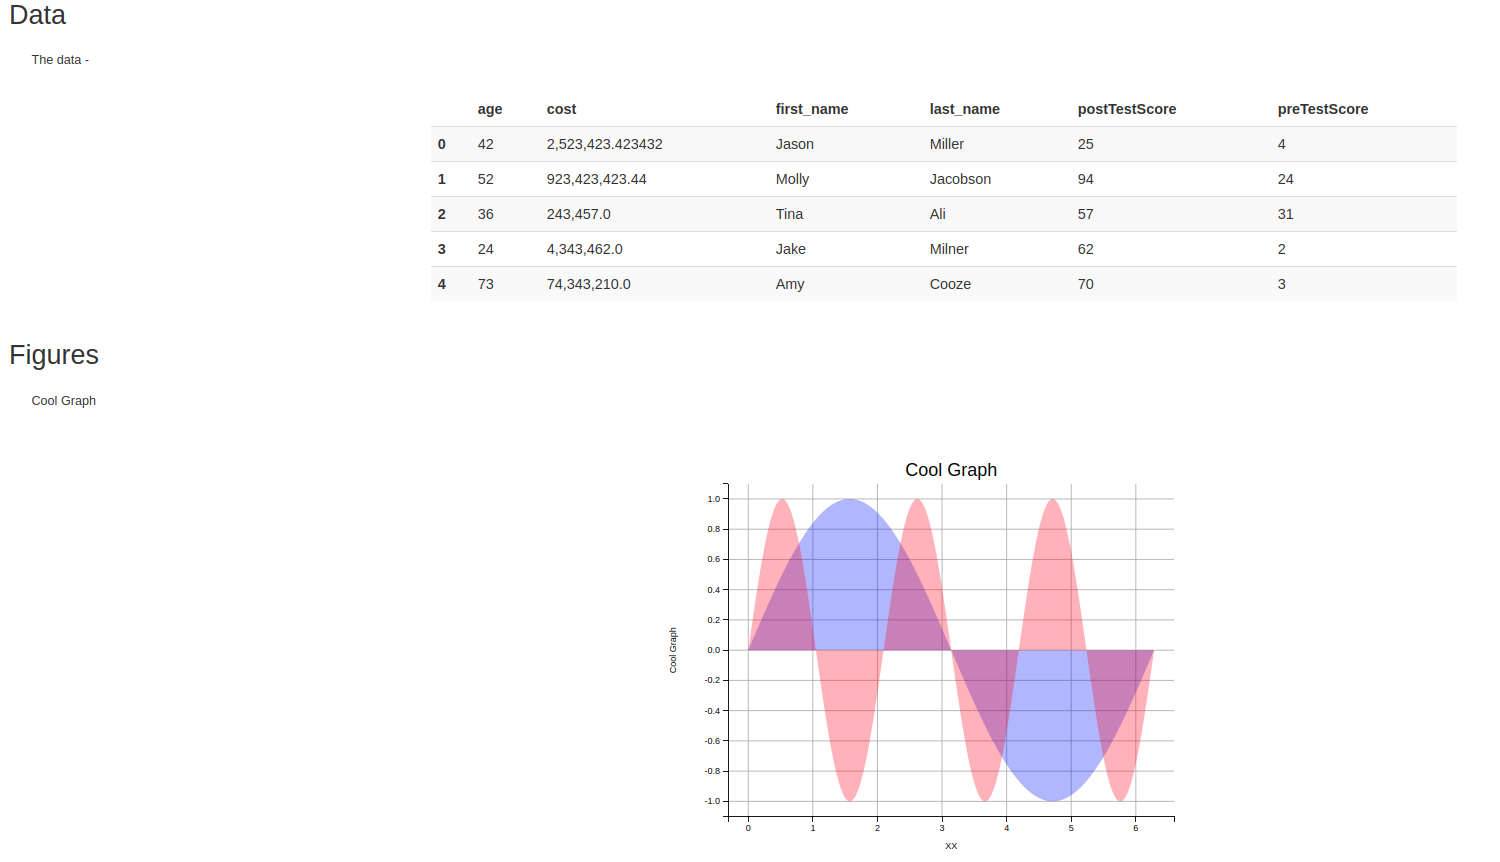
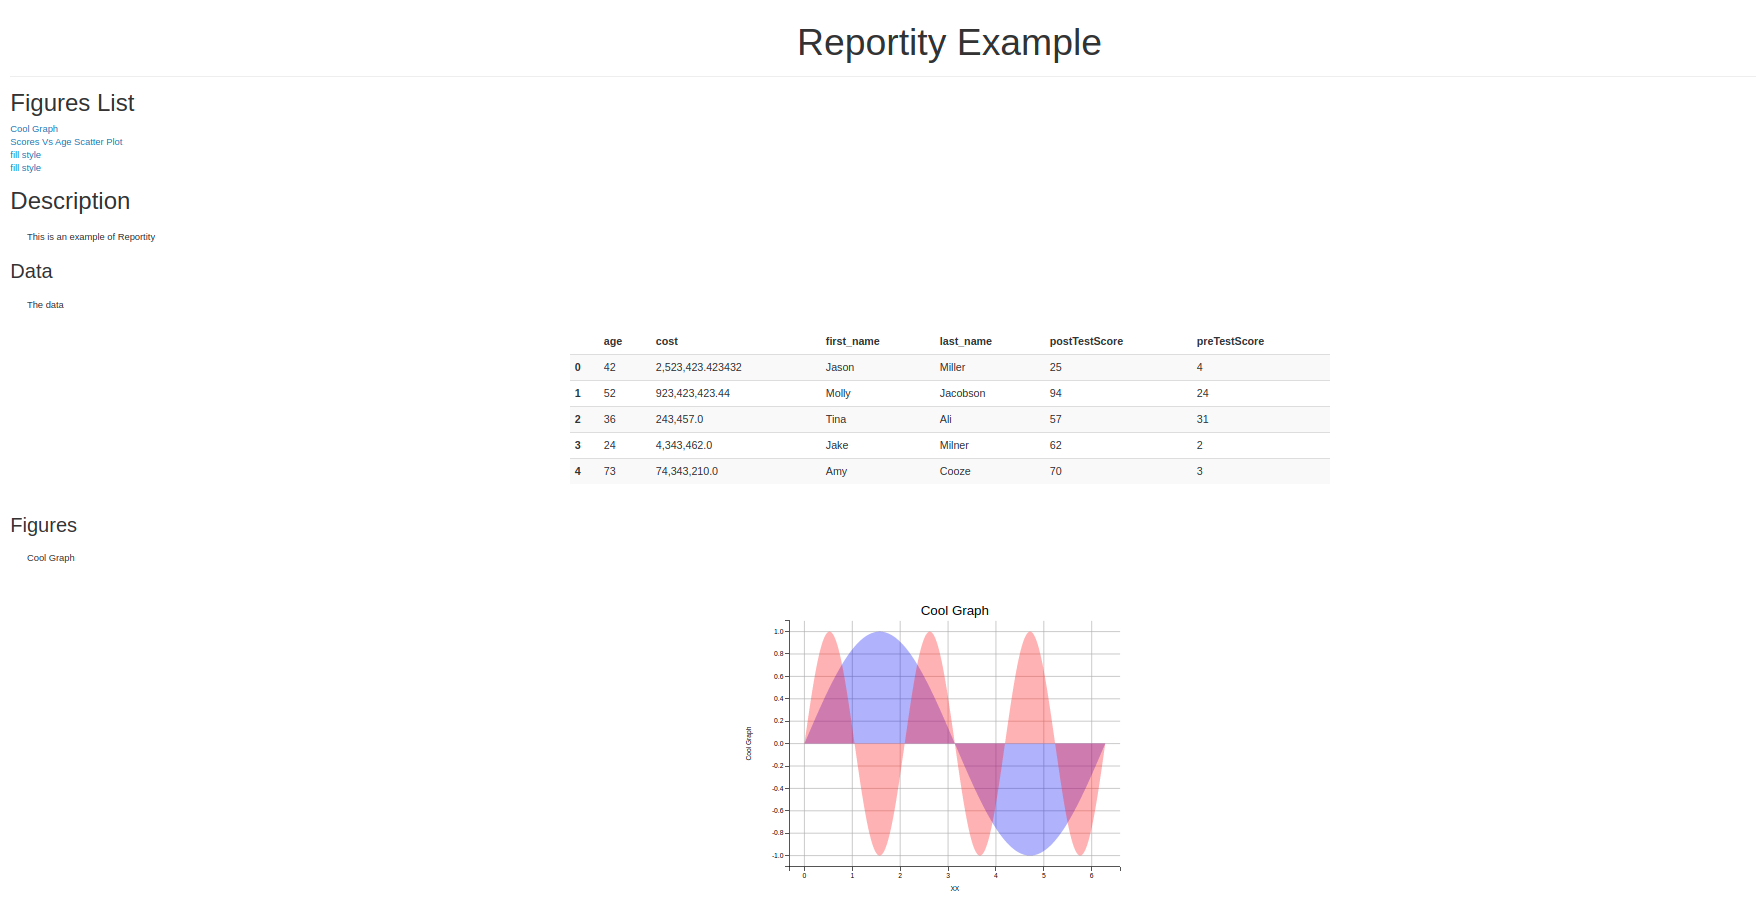
update readme file

diff --git a/examples/example.py b/examples/example.py
@@ -20,21 +20,21 @@ def main():
     fig3 = get_figure_3()
 
     report = reportity.Reportity(
-        title='Test',
+        title='Reportity Example',
     )
     report.print_header(
         text='Description',
         level=1,
     )
     report.print_paragraph(
-        text='This is data of pepole'
+        text='This is an example of Reportity'
     )
     report.print_header(
         text='Data',
         level=2,
     )
     report.print_paragraph(
-        text='The data - '
+        text='The data'
     )
     report.print_dataframe(
         dataframe=dataframe,

diff --git a/README.md b/README.md
@@ -4,11 +4,27 @@
 
 Reportity is an easy to use library for displaying figures/data frames and text. Reportity generates an interactive html report on the fly and execute it at the end of the run
 
-for example - the following code generates data frame and figure -
+## Example
+
+The following code display dataframe and figure -
 
 ```python
+report = reportity.Reportity(
+    title='Reportity Example',
+)
+report.print_header(
+    text='Description',
+    level=1,
+)
 report.print_paragraph(
-    text='The data - '
+    text='This is an example of Reportity'
+)
+report.print_header(
+    text='Data',
+    level=2,
+)
+report.print_paragraph(
+    text='The data'
 )
 report.print_dataframe(
     dataframe=dataframe,
